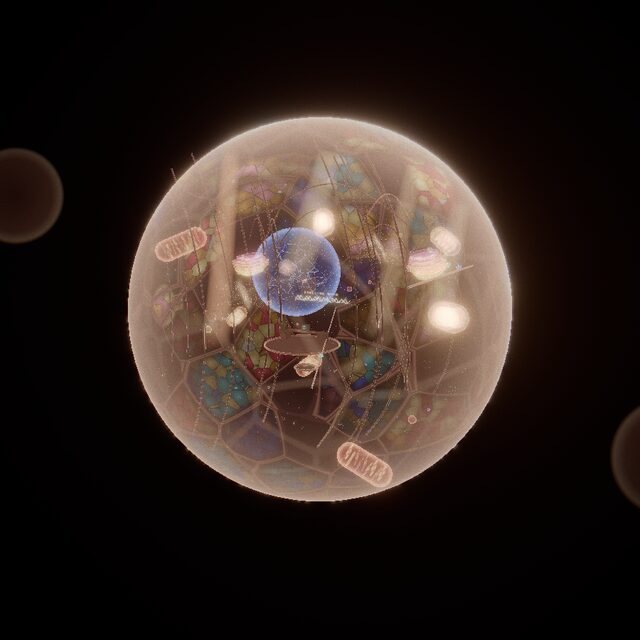
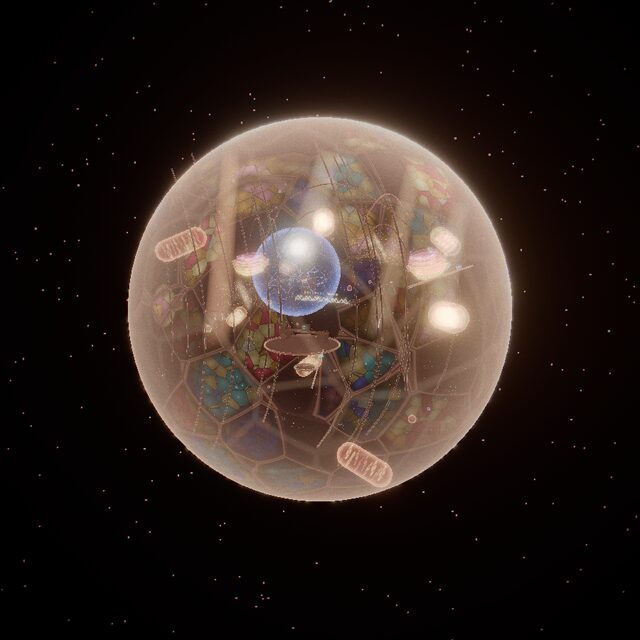
Living word: aim the light, compose every stop, steady the kinesin's cargo, specks in the dark outside
Claude-Session: https://claude.ai/code/session_01BoF2Qvp8E46X75zTVoFos4

Changed region(s): [[0.375, 0.3125, 0.5625, 0.4688], [0.0, 0.2188, 0.125, 0.4062], [0.9375, 0.625, 1.0, 0.8125]]

diff --git a/src/worlds/cell/membrane.ts b/src/worlds/cell/membrane.ts
@@ -1,11 +1,12 @@
-// The cell wall. From inside it's the cathedral's glass: big windows between
-// dark ribs (the cortex just under the membrane), each window leaded into panes
-// of amber, rose and gold, a few of teal and violet, the light outside coming
-// through brightest from one side and from above. Shafts of it reach in through
-// the haze. From outside it's a lantern: a glassy skin bright at its edge, the
-// glow inside showing through, and other cells far off in the warm dark.
+// The cell wall. From inside it's the cathedral's glass: windows between dark
+// ribs (the cortex just under the membrane) and stretches of plain membrane,
+// each window leaded into panes of ruby, amber, rose and gold, cobalt, violet and
+// teal, the light outside coming through brightest from one side and from above.
+// Shafts of it reach in through the haze. From outside it's a lantern: a glassy
+// skin bright at its edge with a glint on it, the glow inside showing through,
+// specks drifting in the warm dark round it.
 import * as THREE from 'three';
-import { CELL, HAZE, NOISE, shared, SUN } from './shaders';
+import { CELL, HAZE, NOISE, shared } from './shaders';
 
 const WALL_VERT = /* glsl */ `
   varying vec3 vWorld;
@@ -19,7 +20,7 @@ const WALL_VERT = /* glsl */ `
 `;
 
 const WALL_FRAG = /* glsl */ `
-  uniform vec4 uNiche;
+  uniform vec4 uBright;
   varying vec3 vWorld;
   varying vec3 vDir;
   ${HAZE}
@@ -47,12 +48,11 @@ const WALL_FRAG = /* glsl */ `
     // The windows, and the panes inside each.
     vec3 big = voronoi(d * 2.6);
     float edge = big.y - big.x;
-    // Some of the wall is windows, some is plain membrane between them, dark and soft;
-    // and behind the map, a niche with no window at all.
+    // Some of the wall is windows, some is plain membrane between them, dark and soft.
     float win = step(0.34, hash13(vec3(big.z * 37.0)));
     // Behind the map, a window always, and bright, so the map hangs against the light.
-    float off = 1.0 - dot(d, uNiche.xyz);
-    float behind = 1.0 - smoothstep(uNiche.w, uNiche.w * 1.8, off);
+    float off = 1.0 - dot(d, uBright.xyz);
+    float behind = uBright.w > 0.0 ? 1.0 - smoothstep(uBright.w, uBright.w * 1.8, off) : 0.0;
     win = max(win, behind);
     vec3 small = voronoi(d * 11.0 + big.z * 13.0);
     float lead = smoothstep(0.0, 0.05, small.y - small.x);
@@ -102,6 +102,10 @@ const SKIN_FRAG = /* glsl */ `
     float sun = 0.5 + 0.8 * pow(max(dot(d, uSun), 0.0), 1.5);
     vec3 col = vec3(1.0, 0.55, 0.35) * rim * 1.1 * sun + vec3(1.0, 0.6, 0.35) * rib * 0.05 * sun;
     col += vec3(1.0, 0.75, 0.5) * pow(rim, 6.0) * 0.6;
+    // A glass ball's highlights: a small bright one from the light, a broad soft sheen round it.
+    vec3 r = reflect(-v, d);
+    float spec = max(dot(r, normalize(uSun + vec3(-0.3, 0.1, 0.5))), 0.0);
+    col += vec3(1.0, 0.92, 0.8) * (pow(spec, 220.0) * 2.5 + pow(spec, 18.0) * 0.12);
     gl_FragColor = vec4(col, 1.0);
   }
 `;
@@ -142,14 +146,12 @@ const SHAFT_FRAG = /* glsl */ `
 
 export interface Membrane {
   group: THREE.Group;
-  /** The outside world: other cells far off, seen only from the vista. */
+  /** The outside world, seen only from the vista: specks drifting in the dark. */
   outside: THREE.Group;
   /** A bright window round this direction (from the cell's middle), this wide (1 - cos of its angle), whatever else the wall does there. */
-  niche(dir: THREE.Vector3, size: number): void;
+  window(dir: THREE.Vector3, size: number): void;
   /** A shaft of light in through the wall from this direction (from the cell's middle), falling toward a point. */
   beam(from: THREE.Vector3, to: THREE.Vector3, radius: number, tint: string): void;
-  /** Puts another cell far off, at p, this big. */
-  place(p: THREE.Vector3, size: number): void;
 }
 
 export function buildMembrane(quality: 'high' | 'low'): Membrane {
@@ -159,7 +161,7 @@ export function buildMembrane(quality: 'high' | 'low'): Membrane {
 
   const wall = new THREE.Mesh(
     sphere,
-    new THREE.ShaderMaterial({ vertexShader: WALL_VERT, fragmentShader: WALL_FRAG, uniforms: { ...shared, uNiche: { value: new THREE.Vector4(0, -1, 0, 0) } }, side: THREE.BackSide }),
+    new THREE.ShaderMaterial({ vertexShader: WALL_VERT, fragmentShader: WALL_FRAG, uniforms: { ...shared, uBright: { value: new THREE.Vector4(0, -1, 0, 0) } }, side: THREE.BackSide }),
   );
   wall.position.copy(CELL.center);
   group.add(wall);
@@ -202,29 +204,23 @@ export function buildMembrane(quality: 'high' | 'low'): Membrane {
     group.add(shaft);
   };
 
-  // --- outside: other cells far off in the warm dark, and motes drifting by --------
+  // --- outside: the warm dark ------------------------------------------------------
   const outside = new THREE.Group();
-  // Out of focus, as far things are: soft discs a little brighter at the rim.
-  const bc = document.createElement('canvas');
-  bc.width = bc.height = 256;
-  const g = bc.getContext('2d')!;
-  const disc = g.createRadialGradient(128, 128, 0, 128, 128, 126);
-  disc.addColorStop(0, 'rgba(255,170,150,0.06)');
-  disc.addColorStop(0.75, 'rgba(255,180,150,0.1)');
-  disc.addColorStop(0.92, 'rgba(255,210,170,0.2)');
-  disc.addColorStop(1, 'rgba(255,190,150,0)');
-  g.fillStyle = disc;
-  g.fillRect(0, 0, 256, 256);
-  const bokeh = new THREE.CanvasTexture(bc);
-  bokeh.colorSpace = THREE.SRGBColorSpace;
-  const place = (p: THREE.Vector3, size: number) => {
-    const m = new THREE.Sprite(new THREE.SpriteMaterial({ map: bokeh, transparent: true, depthWrite: false, blending: THREE.AdditiveBlending, opacity: 0.3, fog: false }));
-    m.position.copy(p);
-    m.scale.setScalar(size);
-    outside.add(m);
-  };
+  // Specks drifting in the dark round it, near and far.
+  const specks: number[] = [];
+  let seed = 7;
+  const r = () => ((seed = (seed * 16807) % 2147483647) / 2147483647);
+  for (let i = 0; i < 900; i++) {
+    const u = r() * 2 - 1;
+    const a = r() * Math.PI * 2;
+    const k = CELL.radius * (1.4 + r() * 5);
+    const q = Math.sqrt(1 - u * u);
+    specks.push(CELL.center.x + Math.cos(a) * q * k, CELL.center.y + u * k, CELL.center.z + Math.sin(a) * q * k);
+  }
+  const speckGeo = new THREE.BufferGeometry();
+  speckGeo.setAttribute('position', new THREE.Float32BufferAttribute(specks, 3));
+  outside.add(new THREE.Points(speckGeo, new THREE.PointsMaterial({ color: '#ffb08a', size: 2.2, sizeAttenuation: false, transparent: true, opacity: 0.5, depthWrite: false, blending: THREE.AdditiveBlending, fog: false })));
   group.add(outside);
-  void SUN;
-  const niche = (dir: THREE.Vector3, size: number) => (wall.material as THREE.ShaderMaterial).uniforms.uNiche.value.set(dir.x, dir.y, dir.z, size);
-  return { group, outside, place, niche, beam };
+  const bright = (dir: THREE.Vector3, size: number) => (wall.material as THREE.ShaderMaterial).uniforms.uBright.value.set(dir.x, dir.y, dir.z, size);
+  return { group, outside, window: bright, beam };
 }

diff --git a/src/worlds/cell/kit.ts b/src/worlds/cell/kit.ts
@@ -51,7 +51,8 @@ export const buildKit: KitModule['buildKit'] = ({ quality, scene, log }) => {
   const high = quality === 'high';
 
   const membrane = buildMembrane(quality);
-  membrane.niche(MAP_DIR, 0.006);
+  // The map hangs against a bright window.
+  membrane.window(MAP_DIR, 0.006);
   // Shafts of light: past the strand, down into the nucleus, onto the mitochondrion behind the medals and the shirts.
   membrane.beam(v(0.45, 0.85, -0.3), v(3.6, 0.2, -8.5), 1.0, '#ffc98a');
   membrane.beam(v(-0.1, 0.95, -0.4), NUCLEUS.at, 1.5, '#ffd8a0');
@@ -85,11 +86,10 @@ export const buildKit: KitModule['buildKit'] = ({ quality, scene, log }) => {
     { len: 3.4, r: 0.7, at: v(3.5, 9.5, 3), turn: 2.0, tilt: 0.2 },
   ].map((d, i) => {
     const m = buildMito(d.len, d.r, 11 + i);
-    m.group.position.copy(d.at);
+    // Held at its angle; it turns slowly about its own length inside the holder.
     const holder = new THREE.Group();
     holder.position.copy(d.at);
     holder.rotation.set(0, d.turn, d.tilt);
-    m.group.position.set(0, 0, 0);
     holder.add(m.group);
     group.add(holder);
     return m;
@@ -221,7 +221,8 @@ export const buildKit: KitModule['buildKit'] = ({ quality, scene, log }) => {
   // The track the kinesin walks, behind the shoes, and the kinesin walking it.
   // It runs right behind the shoes.
   const along = (k: number) => at(STOPS.track, -2.8 + 5.6 * k, 0.24, -0.55 - 0.25 * k);
-  const [trackA, trackB] = clip(along(-3), along(4));
+  // (It starts a little before the kinesin does, so it never crosses the view past the desk.)
+  const [trackA, trackB] = clip(along(-0.12), along(4));
   group.add(filament([trackA, trackA.clone().lerp(trackB, 0.5).add(v(0, 0.02, 0)), trackB], 0.05, tub));
   // Walking past the shoes, in from one side and off at the other.
   const kinesin = buildKinesin(along(0).add(v(0, 0.05, 0)), along(1.3).add(v(0, 0.05, 0)), { scale: 2.0, cargo: 0.24 });
@@ -255,20 +256,8 @@ export const buildKit: KitModule['buildKit'] = ({ quality, scene, log }) => {
   helix.group.position.copy(HELIX);
   group.add(helix.group);
 
-  // The cell, from outside: a lantern in the dark, other cells glowing far off round it.
+  // The cell, from outside: a lantern in the dark.
   const vista: Shot = { pos: v(19, 11, 37), target: v(0, 1.2, -4), fov: 46, lean: 0.3 };
-  const look = vista.target.clone().sub(vista.pos).normalize();
-  const right = new THREE.Vector3().crossVectors(look, v(0, 1, 0)).normalize();
-  const upward = new THREE.Vector3().crossVectors(right, look);
-  for (const [yaw, pitch, dist, size] of [
-    [-0.5, 0.22, 520, 80],
-    [0.56, -0.24, 600, 110],
-    [0.62, 0.3, 800, 70],
-    [-0.66, -0.3, 700, 60],
-  ]) {
-    const d = look.clone().addScaledVector(right, Math.tan(yaw)).addScaledVector(upward, Math.tan(pitch)).normalize();
-    membrane.place(vista.pos.clone().addScaledVector(d, dist), size);
-  }
 
   // --- the studio, spread through the cell ------------------------------------------
   const put = (o: THREE.Object3D, s: THREE.Group, turn = 0) => {
@@ -306,6 +295,17 @@ export const buildKit: KitModule['buildKit'] = ({ quality, scene, log }) => {
     track: { pos: at(STOPS.track, 2.3, 1.05, 1.7), target: at(STOPS.track, -0.4, 0.4, -0.5), fov: 50, lean: 0.05 },
   });
 
+  // What to click for the nucleus and the great mitochondrion: plain shapes, cheap to test.
+  const hidden = new THREE.MeshBasicMaterial({ visible: false });
+  const nucleusHit = new THREE.Mesh(new THREE.SphereGeometry(NUCLEUS.r, 24, 12), hidden);
+  nucleusHit.position.copy(NUCLEUS.at);
+  const mitoHit = new THREE.Mesh(new THREE.CapsuleGeometry(1.0, 2.8, 4, 12).rotateZ(Math.PI / 2), hidden);
+  mitos[0].group.parent!.add(mitoHit);
+  group.add(nucleusHit);
+  const tmpM = new THREE.Matrix4();
+  const tmpV = v(0, 0, 0);
+  const UP = v(0, 1, 0);
+
   const kit: Kit = {
     objects: [group],
     board: helix,
@@ -323,20 +323,23 @@ export const buildKit: KitModule['buildKit'] = ({ quality, scene, log }) => {
     walls,
     band: buildBand(),
     wire(w) {
+      const touch = (object: THREE.Object3D, label: string, run: () => void, when?: () => boolean) => w.touch({ object, label, noGlow: true, onClick: run, when });
       // The kinesin by the shoes: say hello, and it hurries along.
       touch(kinesin.group, 'Kinesin, out for a walk', () => {
         kinesin.hurry();
         w.card('Out for a walk', 'Kinesin', ['A motor protein. It carries things across the cell on its two feet, one step at a time, and never trips.', 'It has never needed the shoes. It likes to have them near.']);
       });
-      function touch(object: THREE.Object3D, label: string, run: () => void) {
-        w.touch({ object, label, noGlow: true, onClick: run });
-      }
+      // The nucleus and the great mitochondrion take you to what's kept in them.
+      touch(nucleusHit, 'The library of genes', () => w.goTo('library'), () => w.current() !== 'library');
+      touch(mitoHit, 'Medals & diplomas', () => w.goTo('honors'), () => !['honors', 'medals', 'diplomas'].includes(w.current()));
     },
-    frame({ t, dt, camera }) {
+    frame({ t, dt: rawDt, camera }) {
+      // The first frame's step can come out a hair below zero; nothing here should ever run backward.
+      const dt = Math.max(0, rawDt);
       shared.uTime.value = t;
       // Thinner haze looking in from outside, so the lantern shows what's in it.
       const inside = camera.position.distanceTo(CELL.center) < CELL.radius;
-      shared.uHazeK.value = inside ? 0.05 : 0.016;
+      shared.uHazeK.value = inside ? 0.05 : 0.012;
       membrane.outside.visible = !inside;
       nucleus.tick(t);
       mitos.forEach((m) => m.tick(t));
@@ -346,14 +349,14 @@ export const buildKit: KitModule['buildKit'] = ({ quality, scene, log }) => {
       helix.group.position.y = HELIX.y + Math.sin(t * 0.4) * 0.03;
       golgi.rotation.y = -0.7 + Math.sin(t * 0.05) * 0.08;
       // The chains coming out of the ribosomes, curling as they fold.
-      const m4 = new THREE.Matrix4();
-      const p = v(0, 0, 0);
+      const m4 = tmpM;
+      const p = tmpV;
       for (const c of chains) {
         for (let i = 0; i < 14; i++) {
           const k = i / 13;
           const a = k * 5 + Math.sin(t * 0.8 + c.phase) * 0.8;
           p.set(Math.sin(a) * 0.05 * (1 + k), k * 0.32 + Math.sin(t * 1.3 + i + c.phase) * 0.01, Math.cos(a) * 0.05 * (1 + k));
-          p.applyAxisAngle(v(0, 1, 0), STOPS.line.rotation.y).add(c.root);
+          p.applyAxisAngle(UP, STOPS.line.rotation.y).add(c.root);
           m4.makeTranslation(p.x, p.y, p.z);
           c.beads.setMatrixAt(i, m4);
         }

diff --git a/src/worlds/cell/sound.ts b/src/worlds/cell/sound.ts
@@ -225,7 +225,10 @@ export function buildBand(): Band {
     const p = ctx.createStereoPanner();
     p.pan.value = pan;
     o.connect(g).connect(p).connect(k.weather);
-    g.connect(k.verb);
+    // A little of it into the room, so it rings a moment.
+    const send = ctx.createGain();
+    send.gain.value = 0.06;
+    g.connect(send).connect(k.verb);
     o.start(at);
     o.stop(at + 0.2);
   };
@@ -261,16 +264,18 @@ export function buildBand(): Band {
           const t0 = ctx.currentTime + 0.05;
           const n = Math.random() < 0.3 ? 2 + Math.floor(Math.random() * 4) : 1;
           const pan = Math.random() * 1.6 - 0.8;
-          for (let i = 0; i < n; i++) bubble(k, t0 + i * (0.05 + Math.random() * 0.12), 280 + Math.random() * 520, 0.05 + Math.random() * 0.05, pan + (Math.random() - 0.5) * 0.3);
+          for (let i = 0; i < n; i++) bubble(k, t0 + i * (0.05 + Math.random() * 0.12), 280 + Math.random() * 520, 0.25 + Math.random() * 0.2, pan + (Math.random() - 0.5) * 0.3);
           if (Math.random() < 0.18) {
             const at = t0 + 0.3;
             const o = ctx.createOscillator();
             const f = 900 + Math.random() * 700;
             o.frequency.setValueAtTime(f * 0.7, at);
             o.frequency.exponentialRampToValueAtTime(f, at + 0.03);
-            const g = k.sound.env(at, 0.035, 0.002, 0.18);
+            const g = k.sound.env(at, 0.22, 0.002, 0.18);
             o.connect(g).connect(k.weather);
-            g.connect(k.verb);
+            const send = ctx.createGain();
+            send.gain.value = 0.05;
+            g.connect(send).connect(k.verb);
             o.start(at);
             o.stop(at + 0.3);
           }
@@ -286,8 +291,8 @@ export function buildBand(): Band {
       if (s === 0 && bar % 2 === 0) {
         const len = sixteenth * 32 * 1.25;
         chord.notes.forEach((n, i) => choir(k, at + i * 0.08, n, len, i === 3 ? 0.03 : 0.04, (i - 1.5) * 0.35));
-        // An octave below the bottom note, very quietly, for depth.
-        choir(k, at, chord.notes[0] - 12, len, 0.025, 0);
+        // The root an octave above the bass, very quietly, for depth.
+        choir(k, at, chord.bass + 12, len, 0.025, 0);
         bass(k, at, chord.bass, sixteenth * 32 * 1.05);
       }
       // The heart, every other beat: lub, dub.
@@ -302,7 +307,7 @@ export function buildBand(): Band {
       }
       if (tune && step >= tuneNext && tuneNote < tune.length) {
         const [n, d] = tune[tuneNote++];
-        if (n) flute(k, at, n, d * sixteenth * 1.02, 0.05);
+        if (n) flute(k, at, n, d * sixteenth * 1.02, 0.065);
         tuneNext = step + d;
       }
       // Proteins folding: a little glassy run up the chord now and then, into the echo.

diff --git a/src/worlds/cell/skeleton.ts b/src/worlds/cell/skeleton.ts
@@ -165,7 +165,6 @@ export function buildKinesin(from: THREE.Vector3, to: THREE.Vector3, opts: { sca
   let lifting = 0;
   let phase = 0;
   const cargoAt = from.clone().add(v(0, stalkLen + cargoR, 0));
-  const cargoVel = v(0, 0, 0);
   const pos = (d: number) => from.clone().addScaledVector(dir, d);
   const up = v(0, 1, 0);
   const place = (n: THREE.Mesh, a: THREE.Vector3, b: THREE.Vector3) => {
@@ -214,10 +213,10 @@ export function buildKinesin(from: THREE.Vector3, to: THREE.Vector3, opts: { sca
       const hip = pos(at).addScaledVector(up, 0.13 * s + lift * 0.3);
       place(necks[lifting], a, hip);
       place(necks[1 - lifting], b, hip);
-      // The vesicle rides on top, on a spring, and the stalk leans to follow it.
+      // The vesicle rides on top, a moment behind, and the stalk leans to follow it.
       const want = hip.clone().addScaledVector(up, stalkLen + cargoR * 0.9);
-      cargoVel.addScaledVector(want.sub(cargoAt), dt * 30).multiplyScalar(Math.exp(-dt * 5));
-      cargoAt.addScaledVector(cargoVel, dt);
+      // (Eased toward where it should be, so it lags a little and never runs away, whatever the frame rate.)
+      cargoAt.lerp(want, 1 - Math.exp(-dt * 7));
       stalk.position.copy(hip);
       stalk.quaternion.setFromUnitVectors(up, cargoAt.clone().sub(hip).normalize());
       cargo.position.copy(cargoAt);

diff --git a/src/worlds/cell/organelles.ts b/src/worlds/cell/organelles.ts
@@ -336,13 +336,14 @@ export function buildVesicles(n: number, seed: number): Vesicles {
   const q = new THREE.Quaternion();
   const s = v(1, 1, 1);
   const at = v(0, 0, 0);
+  const sway = v(0, 0, 0);
   return {
     mesh,
     tick(t, dt, camera) {
       items.forEach((it, i) => {
         it.p.y += it.rise * dt;
         if (it.p.y > CELL.center.y + span) it.p.y -= span * 2;
-        at.copy(it.p).add(v(Math.sin(t * 0.13 + it.phase) * 0.8, 0, Math.cos(t * 0.11 + it.phase * 1.3) * 0.8));
+        at.copy(it.p).add(sway.set(Math.sin(t * 0.13 + it.phase) * 0.8, 0, Math.cos(t * 0.11 + it.phase * 1.3) * 0.8));
         // Out of the way of the lens: they shrink away when you come close.
         const d = at.distanceTo(camera.position);
         const want = THREE.MathUtils.smoothstep(d, 1.0 + it.size * 2, 2.6 + it.size * 3);

diff --git a/tests/e2e/cell.spec.ts b/tests/e2e/cell.spec.ts
@@ -71,6 +71,8 @@ test('the living word: picked from the globes, its strand and its cell, and the 
   // Back to the globes: this one is marked as where you were.
   await page.locator('#worlds-btn').click();
   await expect(page.locator('#chooser')).toBeVisible();
+  // The globes the owner shows may not include this one yet; with all of them showing, it's marked.
+  await page.goto('/?full&worlds=all');
   await expect(page.locator('.globe-wrap.world-cell .last')).toHaveText('Where you were last time');
   expect(problems).toEqual([]);
 });
